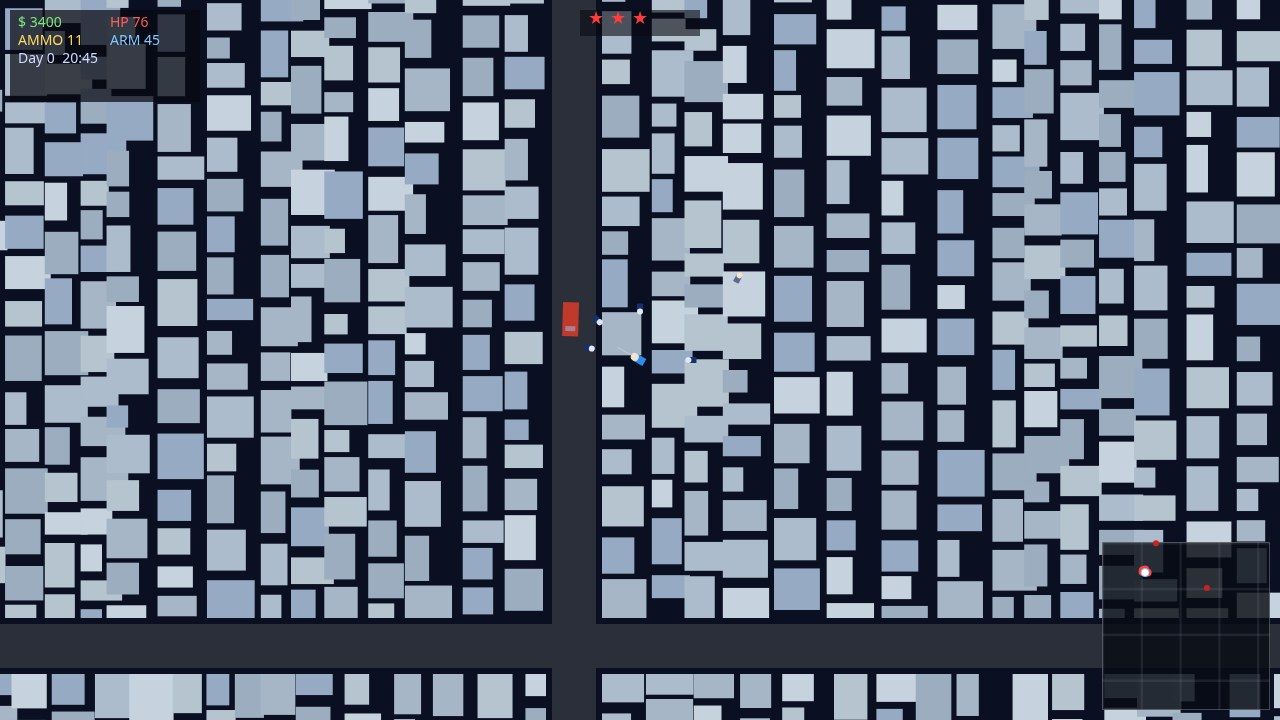
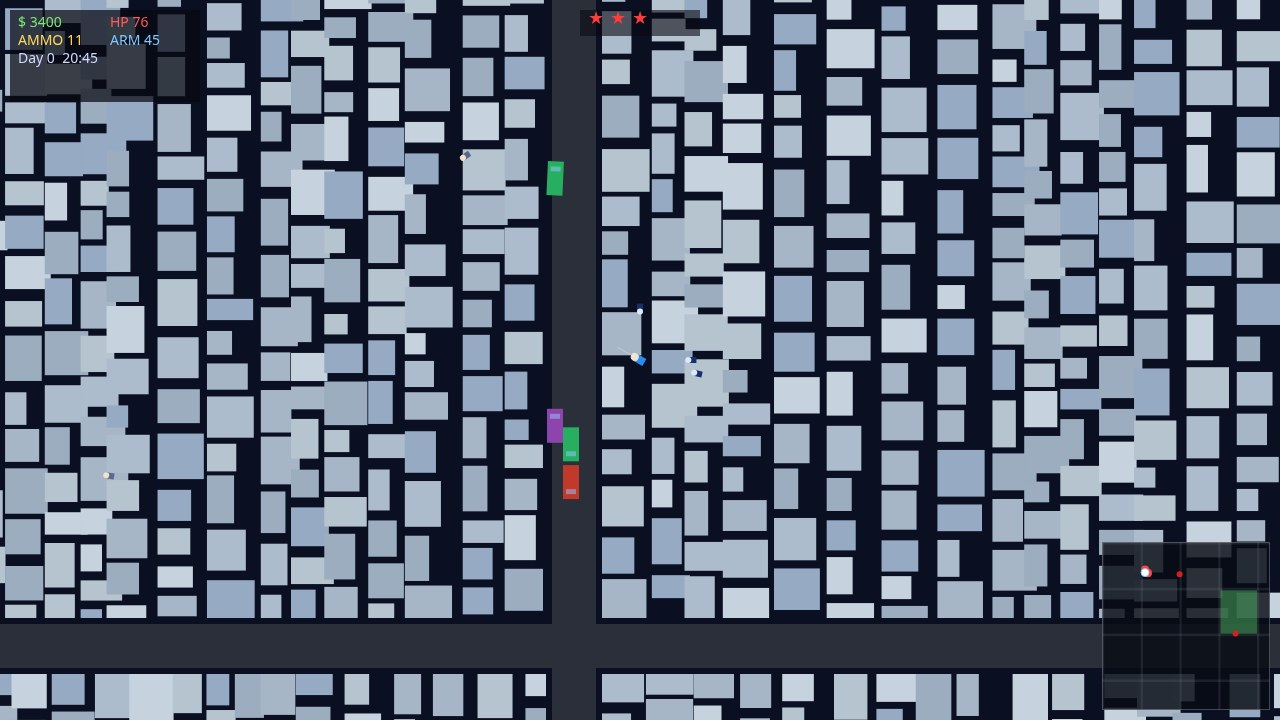
Add waterfront park placement; refresh screenshots

diff --git a/game/src/city.js b/game/src/city.js
@@ -45,7 +45,7 @@ export class City {
         dy >= this.downtown.y && dy < this.downtown.y + this.downtown.h;
       if (inCore) {
         this.buildBlock(c, 'downtown');
-      } else if (!parkChosen && c.x >= WORLD_W - BEACH_W - 6 && c.y >= (WORLD_H / 2) - 2 && c.y < (WORLD_H / 2) + 8) {
+      } else if (!parkChosen && c.x >= WORLD_W - 2 * SPACING && c.y >= WORLD_H / 4 && c.y <= WORLD_H * 2 / 3) {
         this.park = { x: c.x * TILE, y: c.y * TILE, w: c.w * TILE, h: c.h * TILE };
         parkChosen = true;
       } else {
